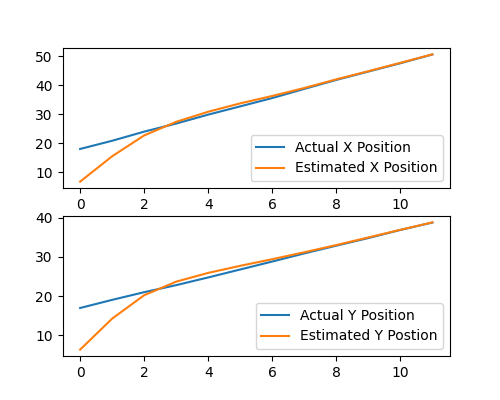
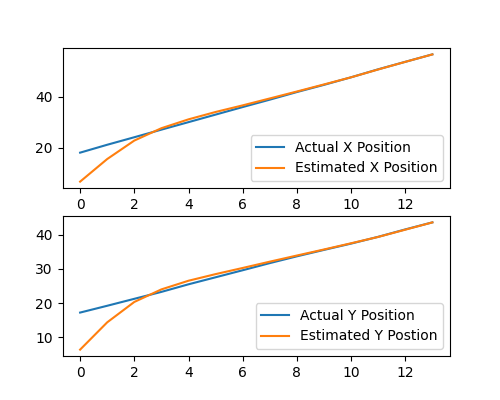
some updation to move the steps with keys

diff --git a/Kalman Filter/visualization2.py b/Kalman Filter/visualization2.py
@@ -1,67 +1,8 @@
 import pygame
 import numpy as np
 import matplotlib.pyplot as plt
-
-class Simulation2D:
-    def __init__(self, initial_position, initial_velocity, process_noise_std,measurement_noise_std ):
-        self.measurement_noise_std = measurement_noise_std
-        self.position = np.array(initial_position, dtype = np.float64)  # [lat, long]
-        self.velocity = np.array(initial_velocity, dtype = np.float64)  # [velocity_lat, velocity_long]
-        self.process_noise_std = process_noise_std
-        self.history = {'position': []}
-
-    def update(self):
-        self.position += self.velocity
-        self.position += np.random.normal(0, self.process_noise_std, 2)
-        self.history['position'].append(self.position.copy())
-
-
-    def get_measurement(self):
-        return self.position + np.random.normal(0, self.measurement_noise_std, 2)
-    
-
-
-
-class KalmanFilter2D:
-    def __init__(self, initial_state, initial_covariance, process_noise_covariance, measurement_noise_covariance):
-        self.state = initial_state
-        self.covariance = initial_covariance
-        self.process_noise_covariance = process_noise_covariance
-        self.measurement_noise_covariance = measurement_noise_covariance
-        self.history = {'position': []}
-
-    def predict(self):
-        # State transition matrix for 2D
-        dt = 1  # time step
-        F = np.array([[1, dt, 0, 0],
-                      [0, 1, 0, 0],
-                      [0, 0, 1, dt],
-                      [0, 0, 0, 1]], dtype= np.float64
-                      )
-
-        # Predict next state
-        self.state = F @ self.state
-        self.covariance = F @ self.covariance @ F.T + self.process_noise_covariance
-
-    def update(self, measurement):
-        # Measurement matrix for 2D
-        H = np.array([[1, 0, 0, 0],
-                      [0, 0, 1, 0]] , dtype= np.float64)
-
-        # Kalman Gain
-        S = H @ self.covariance @ H.T + self.measurement_noise_covariance
-        K = self.covariance @ H.T @ np.linalg.inv(S)
-
-        # Update state
-        y = measurement - H @ self.state  # Measurement residual
-        self.state += K @ y
-        self.covariance = (np.eye(4) - K @ H) @ self.covariance
-
-        self.history['position'].append((self.state[0], self.state[2]))
-
-
-
-import pygame
+from Kalman import KalmanFilter2D
+from simulation import Simulation2D
 
 
 
@@ -109,14 +50,17 @@ class KalmanFilterVisualization:
                 if event.type == pygame.QUIT:
                     self.running = False
 
+                elif event.type == pygame.KEYDOWN:
+                    if event.key == pygame.K_RIGHT:
+
             # Update the simulation and Kalman filter
             
-            self.vehicle_sim.update()
-            measurement = self.vehicle_sim.get_measurement()
-            self.kalman_filter.predict()
-            self.kalman_filter.update(measurement)
+                        self.vehicle_sim.update()
+                        measurement = self.vehicle_sim.get_measurement()
+                        self.kalman_filter.predict()
+                        self.kalman_filter.update(measurement)
 
-            self.update_plots()
+                        self.update_plots()
 
 
             # Clear the screen

diff --git a/Kalman Filter/Kalman.py b/Kalman Filter/Kalman.py
@@ -1,30 +1,38 @@
-from .car import VehicleSimulation
-class KalmanFilter:
-    def __init__(self, initial_state, initial_covariance, process_noise_std, measurement_noise_std):
-        self.state = np.array(initial_state)
-        self.covariance = np.array(initial_covariance)
-        self.process_noise_std = process_noise_std
-        self.measurement_noise_std = measurement_noise_std
+
+import numpy as np
+class KalmanFilter2D:
+    def __init__(self, initial_state, initial_covariance, process_noise_covariance, measurement_noise_covariance):
+        self.state = initial_state
+        self.covariance = initial_covariance
+        self.process_noise_covariance = process_noise_covariance
+        self.measurement_noise_covariance = measurement_noise_covariance
+        self.history = {'position': []}
 
     def predict(self):
-        # Predict the next state
-        self.state[0] += self.state[1]
-        self.covariance[0, 0] += self.process_noise_std ** 2
+        # State transition matrix for 2D
+        dt = 1  # time step
+        F = np.array([[1, dt, 0, 0],
+                      [0, 1, 0, 0],
+                      [0, 0, 1, dt],
+                      [0, 0, 0, 1]], dtype= np.float64
+                      )
+
+        # Predict next state
+        self.state = F @ self.state
+        self.covariance = F @ self.covariance @ F.T + self.process_noise_covariance
 
     def update(self, measurement):
-        # Kalman gain
-        K = self.covariance[0, 0] / (self.covariance[0, 0] + self.measurement_noise_std ** 2)
-        
-        # Update state and covariance
-        self.state[0] += K * (measurement - self.state[0])
-        self.covariance[0, 0] *= (1 - K)
+        # Measurement matrix for 2D
+        H = np.array([[1, 0, 0, 0],
+                      [0, 0, 1, 0]] , dtype= np.float64)
 
+        # Kalman Gain
+        S = H @ self.covariance @ H.T + self.measurement_noise_covariance
+        K = self.covariance @ H.T @ np.linalg.inv(S)
 
-vehicle_sim = VehicleSimulation(initial_position=0, initial_velocity=1, process_noise_std=0.1)
+        # Update state
+        y = measurement - H @ self.state  # Measurement residual
+        self.state += K @ y
+        self.covariance = (np.eye(4) - K @ H) @ self.covariance
 
-
-kf = KalmanFilter(initial_state=[0, 1], initial_covariance=[[1, 0], [0, 1]], process_noise_std=0.1, measurement_noise_std=1)
-measurement = vehicle_sim.update()
-kf.predict()
-kf.update(measurement)
-print("Estimated position:", kf.state[0])
+        self.history['position'].append((self.state[0], self.state[2]))

diff --git a/Kalman Filter/simulation.py b/Kalman Filter/simulation.py
@@ -1,0 +1,20 @@
+import numpy as np
+
+class Simulation2D:
+    def __init__(self, initial_position, initial_velocity, process_noise_std,measurement_noise_std ):
+        self.measurement_noise_std = measurement_noise_std
+        self.position = np.array(initial_position, dtype = np.float64)  # [lat, long]
+        self.velocity = np.array(initial_velocity, dtype = np.float64)  # [velocity_lat, velocity_long]
+        self.process_noise_std = process_noise_std
+        self.history = {'position': []}
+
+    def update(self):
+        self.position += self.velocity
+        self.position += np.random.normal(0, self.process_noise_std, 2)
+        self.history['position'].append(self.position.copy())
+
+
+    def get_measurement(self):
+        return self.position + np.random.normal(0, self.measurement_noise_std, 2)
+    
+
